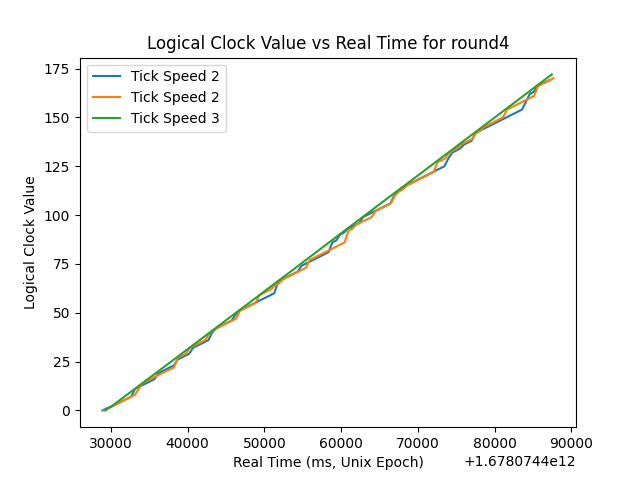
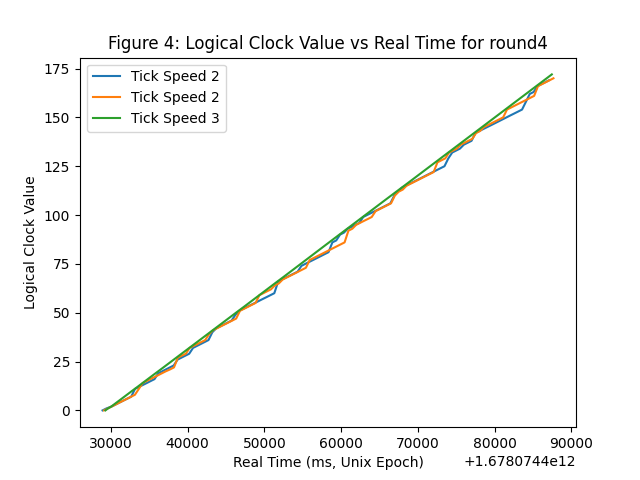
Add plot numbers and abstract out the logic of running a plotting function for each round

Changed region(s): [[0.1562, 0.0625, 0.875, 0.125]]

diff --git a/experiments/visualize.py b/experiments/visualize.py
@@ -69,6 +69,13 @@ Plotting functions
 
 TICK_SPEED_LABEL = 'Tick Speed'
 
+# mutated each time a plot is created
+plot_number = 0
+def next_plot_number():
+  global plot_number
+  plot_number += 1
+  return plot_number
+
 # plots the logical clock value as a function of real time for each client in the given round
 def plotLogicialClockValueVsRealTime(path_to_rnd, rnd):
     # returns a list of logical clock values and a list of real times of the same length, with indices in each list corresponding to one another
@@ -88,7 +95,7 @@ def plotLogicialClockValueVsRealTime(path_to_rnd, rnd):
       plt.xlabel('Real Time (ms, Unix Epoch)')
       plt.ylabel('Logical Clock Value')
       plt.legend()
-      plt.title('Logical Clock Value vs Real Time for {}'.format(rnd))
+      plt.title('Figure {}: Logical Clock Value vs Real Time for {}'.format(next_plot_number(), rnd))
       # save under visualizations
       plt.savefig(os.path.join('.', 'visualizations1', 'logical_clock_values','logical_clock_value_vs_real_time_round_{}.png'.format(rnd)))
       plt.clf()
@@ -124,7 +131,7 @@ def plotMessageQueueLengthVsRealTime(path_to_rnd, rnd):
     plt.xlabel('Real Time (ms, Unix Epoch)')
     plt.ylabel('Message Queue Length')
     plt.legend()
-    plt.title('Message Queue Length vs Real Time for {}'.format(rnd))
+    plt.title('Figure {}: Message Queue Length vs Real Time for {}'.format(next_plot_number(), rnd))
     # save under visualizations
     plt.savefig(os.path.join('.', 'visualizations1', 'message_queue_lengths','message_queue_lengths_vs_real_time_round_{}.png'.format(rnd)))
     plt.clf()
@@ -145,15 +152,16 @@ def plotMessageQueueLengthVsRealTime(path_to_rnd, rnd):
 Execution
 '''
 
-def forEachRound(experiment_path):
-    for rnd in os.listdir(experiment_path):
+# executes the given function on each round in the given experiment, giving the function the path to the round and the round name
+def forEachRound(experiment_path, function):
+    for rnd in sorted(os.listdir(experiment_path)):
         path_to_rnd = os.path.join(experiment_path, rnd)
-        plotLogicialClockValueVsRealTime(path_to_rnd, rnd)
-        plotMessageQueueLengthVsRealTime(path_to_rnd, rnd)
+        function(path_to_rnd, rnd)
 
 def main():
   experiment1 = os.path.join('.', 'experiment1')
-  forEachRound(experiment1)
+  forEachRound(experiment1, plotLogicialClockValueVsRealTime)
+  forEachRound(experiment1, plotMessageQueueLengthVsRealTime)
 
 if __name__ == '__main__':
   main()
